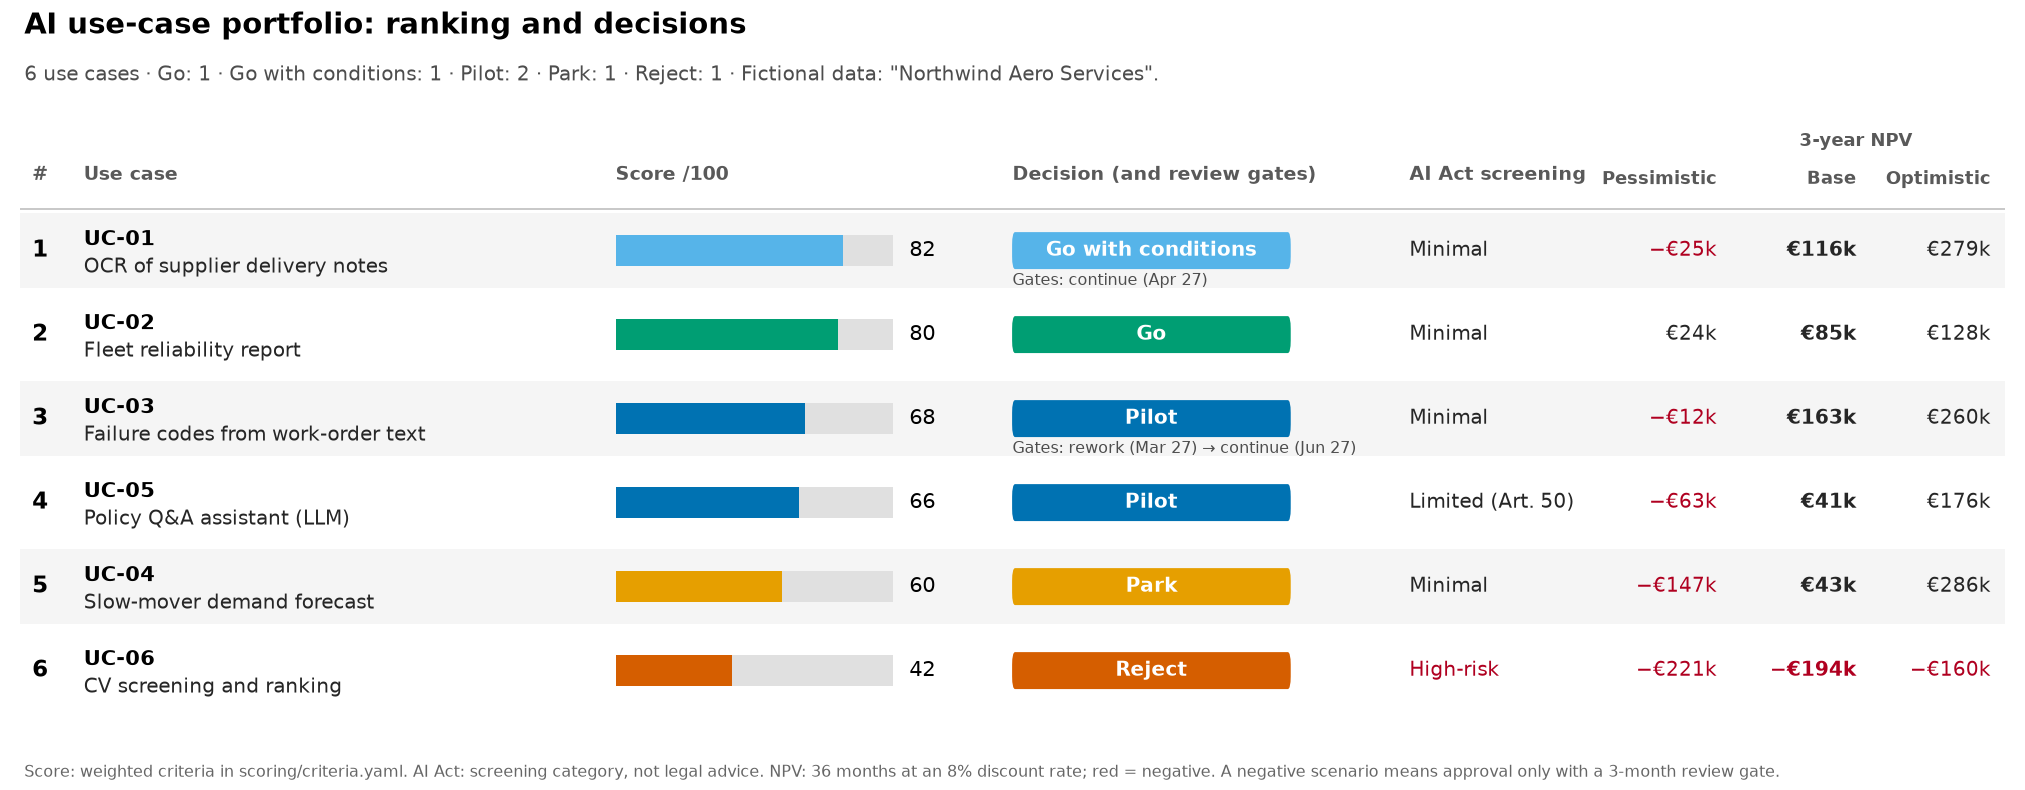
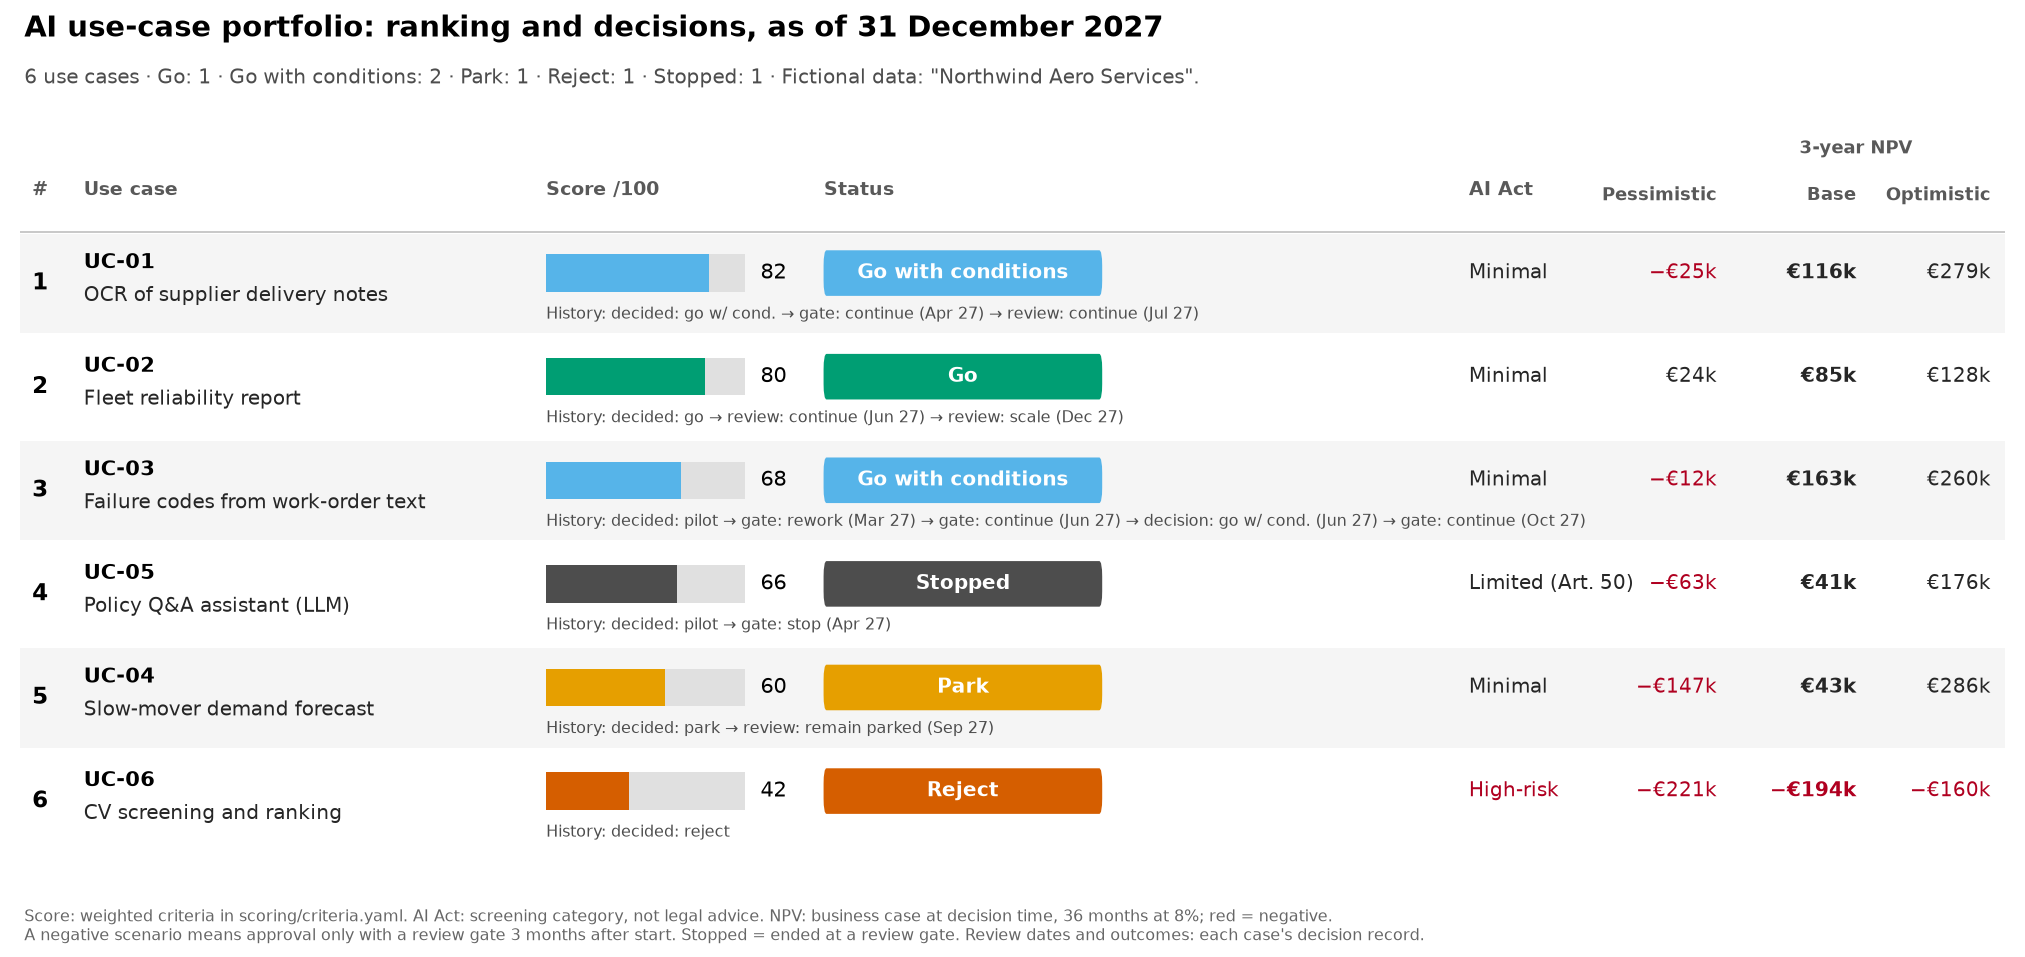
Regenerate example records, decisions table and charts

diff --git a/examples/UC-03_work_order_classification/decision_record_2.md b/examples/UC-03_work_order_classification/decision_record_2.md
@@ -1,0 +1,120 @@
+# Decision record: UC-03 Failure codes suggested from maintenance work-order free text
+
+> **Fictional example.** "Northwind Aero Services" is a fictional MRO and spare-parts company. All names, dates and figures are invented.
+
+> **Follows** [`decision_record.md`](decision_record.md) (Pilot, 2026-10-20).
+
+Generated by `scoring/build_examples.py` from `decision_2.yaml` and the computed scores, triage and business case. Edit `decision_2.yaml`, not this file.
+
+## 1. Decision
+
+| Field | Value |
+|---|---|
+| Use-case ID and title | UC-03 Failure codes suggested from maintenance work-order free text |
+| Decision | **Go with conditions** |
+| Decision date | 2027-06-10 |
+| Decision makers | Sponsor: Director of Maintenance (fictional); Process owner: Head of Maintenance Planning (fictional); Data owner: Maintenance Data Manager (fictional); Finance: Controlling Business Partner (fictional) |
+| Decision stage | end of pilot (after the review gates of 2027-03-01 and 2027-06-01) |
+| Review gate outcomes | continue (2027-10-01); see section 9 |
+
+Pilot to go with conditions. The pilot gate fired in March and the rework worked: at the June gate no trigger was reached (11% wrong codes, 62% coverage). Performance is still below the original plan (8% and 80%), and the pessimistic scenario of the business case is still negative, so the roll-out to all aircraft types gets its own review gate 3 months after it starts, with the same triggers. The value tracking keeps the original plan, so the gap stays visible.
+
+## 2. Scores
+
+| Field | Value |
+|---|---|
+| Gate result | pass |
+| Weighted score (out of 100) | 68.0 |
+| Rank in the portfolio | 3 of 6 |
+| Matrix quadrant | strategic bet |
+
+| Criterion | Weight | Score (1–5) | Reason for the score |
+|---|---|---|---|
+| Business value | 30 | 4 | Unchanged since the pilot decision: 125 hours per month saved (0.9 FTE gross) and 600 wrong codes per month avoided at full plan. |
+| Feasibility | 20 | 3 | Model, retraining routine and work-order screen integration now proven in the pilot; score kept at 3 until the roll-out to all types works. |
+| Data maturity | 20 | 2 | Code list cleaned for the pilot types only; engine-shop work orders still use another coding scheme. |
+| AI maturity / proof | 10 | 4 | Text classification has production references in maintenance; our pilot confirms it on shorthand after relabelling. |
+| Risk (inverted) | 10 | 4 | Minimal risk; the planner confirms every code; a wrong code affects analysis, not airworthiness release. |
+| Strategic fit | 10 | 4 | Supports the reliability objective (named KPI: share of work orders with a valid failure code). |
+
+## 3. AI Act category
+
+| Field | Value |
+|---|---|
+| Screening category | Minimal risk (`minimal`) |
+| Main reason and article reference | No prohibited, high-risk or transparency trigger: minimal risk. |
+| Legal/compliance review | Not required for a minimal-risk screening; to repeat if the codes feed an approved reliability programme. |
+| Obligations carried into the project | AI literacy measures for staff using the system (Art. 4). |
+
+The screening category is not legal advice. Any category other than "minimal risk", and any borderline case, needs confirmation by legal or compliance. Details: `triage.md`.
+
+## 4. Business case summary
+
+| Field | Pessimistic | Base | Optimistic |
+|---|---|---|---|
+| Annual benefit (€) | €37,500 | €111,600 | €153,630 |
+| One-off cost (€) | €68,000 | €68,000 | €68,000 |
+| Annual run cost (€) | €15,000 | €15,000 | €15,000 |
+| Payback (months) | not within 36 months | 12 | 10 |
+| 3-year NPV (€) | -€11,586 | €162,666 | €260,450 |
+
+Link to the business case: [`business_case.md`](business_case.md). Main assumptions and their confidence are in its assumptions log.
+
+## 5. Downside and review gate
+
+**The 3-year NPV is negative in the pessimistic scenario. Pessimistic NPV: -€11,586.**
+
+Because a scenario is negative, the decision carries a review gate on **2027-10-01**, 3 months after go-live (2027-07-01).
+
+| Trigger | How it is measured at the gate | Base plan | Stop or rework if | NPV if only this input is pessimistic |
+|---|---|---|---|---|
+| Share with a wrong failure code with the solution | Share of wrong final codes in a blind audit of 300 work orders across all aircraft types, same method as the 20% baseline. | 8% | at or above 14.0% | €57,871 |
+| Coding time per work order with the solution | Median time per work order from opening to confirming the code, from the work-order screen log, month 3 of the roll-out (September 2027). | 1.5 minutes saved per transaction | time saved at or below 1 minute per transaction (handling time at or above 1 minute) | €142,290 |
+| Adoption after the ramp-up | Share of all work orders closed in month 3 of the roll-out for which the model returns a code above the confidence threshold. | 80% | at or below 50% | €71,377 |
+
+If all triggers are reached, the NPV falls to -€11,586 (the full pessimistic scenario).
+
+**At the gate:** if no trigger is reached, the case continues to the standard value review. If a trigger is reached, the sponsor decides to **stop**, or to **rework** (named actions, owner, date). A rework is allowed only if the business case, re-run on the measured values with the expected effect and cost of the rework, has a positive NPV; otherwise the case stops. Gate outcomes are recorded in section 9.
+
+## 6. Key risks and mitigations
+
+| Risk | Likelihood (L/M/H) | Impact (L/M/H) | Mitigation | Owner |
+|---|---|---|---|---|
+| Accuracy drops on aircraft types not covered by the pilot. | M | H | Blind audit of 300 work orders across all types in month 3 of the roll-out; stop trigger unchanged. | Maintenance Data Manager |
+| Coverage stays low because engine-shop work orders use another coding scheme. | H | M | Mapping of the engine-shop scheme scoped as a separate change; coverage reported monthly. | Head of Reliability Engineering |
+| Planners accept suggestions without reading the text. | M | M | Low-confidence cases still require a manual pick; monthly sample of 50 confirmed codes. | Head of Maintenance Planning |
+
+## 7. Conditions attached
+
+- Review gate on 2027-10-01 (3 months after go-live): stop or rework if a trigger in section 5 is reached.
+- Roll-out by aircraft type, with the cleaned code list loaded before each type goes live.
+- Retraining every quarter with the planners' corrections.
+- No change to release procedures; the code remains an analysis field.
+
+## 8. Review
+
+| Field | Value |
+|---|---|
+| Review date | 2027-10-01 |
+| What will be reviewed | Measured accuracy, time saved and coverage on all aircraft types; realised value against the original plan. |
+| Reopening trigger (park only) | not applicable |
+
+## 9. Review history
+
+Each gate compares the measured values with the stop or rework thresholds of section 5 and re-runs the business case on the measured values (same 36-month horizon and start date; the delay caused by a rework is not modelled).
+
+### Gate 1: 2027-10-01. Decision: **Continue**
+
+| Trigger | Stop or rework if | Measured | Reached? |
+|---|---|---|---|
+| Share with a wrong failure code with the solution | at or above 14.0% | 11% | no |
+| Coding time per work order with the solution | time saved at or below 1 minute per transaction (handling time at or above 1 minute) | 1.3 minutes saved (handling time 0.7 minutes) | no |
+| Adoption after the ramp-up | at or below 50% | 53% | no |
+
+- 3-year NPV re-run on the measured values, including €18,000 of earlier rework cost: **€20,333**.
+
+No trigger reached on all aircraft types: 11% wrong codes, 1.3 minutes saved per work order and 53% coverage. Coverage is only just above the 50% threshold because engine-shop work orders use another coding scheme. The re-run NPV, including the pilot rework cost, is positive but small. Continue to the value review in January, where the 50% rule of the method applies.
+
+Next review: **2028-01-01** (value review).
+
+**Status as of 2027-12-31:** next review due on 2028-01-01.

diff --git a/examples/UC-05_policy_assistant/decision_record.md b/examples/UC-05_policy_assistant/decision_record.md
@@ -13,6 +13,7 @@ Generated by `scoring/build_examples.py` from `decision.yaml` and the computed s
 | Decision date | 2026-10-20 |
 | Decision makers | Sponsor: Chief Operating Officer (fictional); Process owner: Head of Quality Management (fictional); IT security: Chief Information Security Officer (fictional); Legal/compliance: Compliance Officer (fictional) |
 | Decision stage | business case |
+| Review gate outcomes | stop (2027-04-11); see section 9 |
 
 Pilot, on the approved on-premise environment only. Staff spend real time looking for the current version of procedures, but the benefit is spread thin and depends on usage that often drops after launch. Some policies include export-control procedures, so no public cloud model may be used. The pessimistic scenario is clearly negative, so the 3-month pilot with 100 users ends at a review gate on time saved and adoption.
 
@@ -98,6 +99,19 @@ Monitored at the gate but not a trigger: Share of saved hours redeployed or avoi
 | What will be reviewed | Measured time saved and adoption, answer-quality sample, incidents; decision to roll out, rework or stop. |
 | Reopening trigger (park only) | not applicable |
 
-## 9. Review gate outcomes
+## 9. Review history
 
-No review gate recorded yet (due on 2027-04-11).
+Each gate compares the measured values with the stop or rework thresholds of section 5 and re-runs the business case on the measured values (same 36-month horizon and start date; the delay caused by a rework is not modelled).
+
+### Gate 1: 2027-04-11. Decision: **Stop**
+
+| Trigger | Stop or rework if | Measured | Reached? |
+|---|---|---|---|
+| Time to find an answer with the assistant | time saved at or below 7 minutes per transaction (handling time at or above 8 minutes) | 8 minutes saved (handling time 7 minutes) | no |
+| Adoption after the ramp-up | at or below 35% | 30% | **yes** |
+
+- 3-year NPV re-run on the measured values: **-€65,576**.
+
+Adoption trigger reached: only 30% of the pilot group's policy questions went through the assistant in month 3 (stop or rework at 35% or less). Users who used it saved time (8 minutes per question), but most kept asking colleagues or the help desk, mainly because answers on safety-relevant topics only return a link. The re-run on the measured values is negative, and the sponsor did not want to relax the safety-topic rule to raise usage. Decision: stop. The cleaned policy library and the 100 reference questions are kept for a later intake.
+
+**Status as of 2027-12-31:** stopped on 2027-04-11. No further review.

diff --git a/examples/UC-01_delivery_note_ocr/decision_record.md b/examples/UC-01_delivery_note_ocr/decision_record.md
@@ -14,6 +14,7 @@ Generated by `scoring/build_examples.py` from `decision.yaml` and the computed s
 | Decision makers | Sponsor: Director of Supply Chain (fictional); Process owner: Head of Goods Receipt (fictional); Finance: Controlling Business Partner (fictional); IT: Head of ERP Applications (fictional) |
 | Decision stage | business case |
 | Review gate outcomes | continue (2027-04-11); see section 9 |
+| Other reviews | value review: continue (2027-07-11); see section 9 |
 
 Go, with conditions. The case is the portfolio's clear quick win: high volume, a proven technique and a human check on every receipt. The base case pays back in 11 months, but the pessimistic scenario does not pay back within 3 years, so the go is tied to a 3-month review gate on time saved and adoption, the two inputs the process owner can measure early.
 
@@ -98,7 +99,7 @@ Monitored at the gate but not a trigger: Share of saved hours redeployed or avoi
 | What will be reviewed | Measured time saved, processable share of notes, field accuracy, claims backlog, incidents. |
 | Reopening trigger (park only) | not applicable |
 
-## 9. Review gate outcomes
+## 9. Review history
 
 Each gate compares the measured values with the stop or rework thresholds of section 5 and re-runs the business case on the measured values (same 36-month horizon and start date; the delay caused by a rework is not modelled).
 
@@ -113,3 +114,12 @@ Each gate compares the measured values with the stop or rework thresholds of sec
 
 No trigger reached. Checking takes longer than planned (2.4 instead of 2 minutes) because clerks re-read low-confidence fields, but time saved and the processable share are both well above their thresholds. The case moves to the standard value review.
 
+Next review: **2027-07-11** (value review).
+
+### Value and park reviews
+
+| Date | Review | Outcome | What was found | Next review |
+|---|---|---|---|---|
+| 2027-07-11 | value review | **Continue** | First six months at 91% of plan. Checking still takes 2.4 minutes, and about half of the freed time goes to the supplier-claims backlog as planned. No action needed. | 2028-01-11 |
+
+**Status as of 2027-12-31:** next review due on 2028-01-11.

diff --git a/examples/UC-02_fleet_reliability_report/decision_record.md b/examples/UC-02_fleet_reliability_report/decision_record.md
@@ -13,6 +13,7 @@ Generated by `scoring/build_examples.py` from `decision.yaml` and the computed s
 | Decision date | 2026-10-20 |
 | Decision makers | Sponsor: Director of Engineering (fictional); Process owner: Head of Reliability Engineering (fictional); Finance: Controlling Business Partner (fictional) |
 | Decision stage | business case |
+| Other reviews | value review: continue (2027-06-01), value review: scale (2027-12-01); see section 9 |
 
 Go. Medium value but cheap, quick and low-risk: it reuses the existing BI platform, the data is already used in reporting, and an engineer reviews every report before it goes to a customer. The NPV stays positive in all three scenarios, so the standard 6-month value review applies.
 
@@ -80,3 +81,12 @@ The 3-year NPV is positive in every scenario (pessimistic NPV: €24,178). The d
 | Review date | 2027-06-01 |
 | What will be reviewed | Realised vs. planned value, adoption, false-alarm rate, re-issued reports. |
 | Reopening trigger (park only) | not applicable |
+
+## 9. Review history
+
+| Date | Review | Outcome | What was found | Next review |
+|---|---|---|---|---|
+| 2027-06-01 | value review | **Continue** | First six months on plan (100%). One false anomaly flag, caused by a sensor data gap, led to an input check. Engineers read the flags. | 2027-12-01 |
+| 2027-12-01 | value review | **Scale** | Twelve months on plan (101%) with two minor incidents. Decision: extend the automated report and anomaly flags to the component shop in 2028, with a short business case addendum at the next review. | 2028-06-01 |
+
+**Status as of 2027-12-31:** next review due on 2028-06-01.

diff --git a/examples/UC-04_slow_mover_forecast/decision_record.md b/examples/UC-04_slow_mover_forecast/decision_record.md
@@ -13,6 +13,7 @@ Generated by `scoring/build_examples.py` from `decision.yaml` and the computed s
 | Decision date | 2026-10-20 |
 | Decision makers | Sponsor: Director of Supply Chain (fictional); Process owner: Head of Materials Planning (fictional); Finance: Controlling Business Partner (fictional) |
 | Decision stage | business case |
+| Other reviews | park review: remain parked (2027-09-01); see section 9 |
 
 Park. The idea is sound but the data is not ready: after the ERP migration only 14 months of clean demand history exist, and slow movers need at least 24 months to show a pattern. The business case is fragile for the same reason: its pessimistic NPV is strongly negative and the base case pays back only in month 23. Reopen when 24 months of clean history exist.
 
@@ -81,3 +82,11 @@ No review gate now, because the decision is park and nothing is built. If the ca
 | Review date | 2027-09-01 |
 | What will be reviewed | Length and quality of the demand history; then a back-test of a simple forecast against planner judgement. |
 | Reopening trigger (park only) | 24 months of clean demand history available (expected August 2027), confirmed by the data owner. |
+
+## 9. Review history
+
+| Date | Review | Outcome | What was found | Next review |
+|---|---|---|---|---|
+| 2027-09-01 | park review | **Remain parked** | Reopening trigger not met. The data owner found that the 2026 ERP migration duplicated six months of demand; clean history is 18 months, not 24. Re-check when 24 clean months are available. | 2028-03-01 |
+
+**Status as of 2027-12-31:** next review due on 2028-03-01.

diff --git a/examples/UC-03_work_order_classification/decision_record.md b/examples/UC-03_work_order_classification/decision_record.md
@@ -2,6 +2,8 @@
 
 > **Fictional example.** "Northwind Aero Services" is a fictional MRO and spare-parts company. All names, dates and figures are invented.
 
+> **Superseded** on 2027-06-10 by [`decision_record_2.md`](decision_record_2.md) (Go with conditions). Kept as the record of the earlier decision.
+
 Generated by `scoring/build_examples.py` from `decision.yaml` and the computed scores, triage and business case. Edit `decision.yaml`, not this file.
 
 ## 1. Decision
@@ -97,7 +99,7 @@ If all triggers are reached, the NPV falls to -€11,586 (the full pessimistic s
 | What will be reviewed | Measured accuracy, time saved and coverage; decision to roll out, rework or stop. |
 | Reopening trigger (park only) | not applicable |
 
-## 9. Review gate outcomes
+## 9. Review history
 
 Each gate compares the measured values with the stop or rework thresholds of section 5 and re-runs the business case on the measured values (same 36-month horizon and start date; the delay caused by a rework is not modelled).
 
@@ -134,3 +136,4 @@ Next review gate: **2027-06-01**, same triggers.
 
 No trigger reached after the rework. Accuracy and coverage are better but still below the original plan (8% error rate, 80% coverage). The re-run NPV is positive, so the roll-out to all aircraft types continues; the value tracking keeps the original plan to make the gap visible.
 
+**Status as of 2027-12-31:** superseded on 2027-06-10 by `decision_record_2.md`.

diff --git a/examples/UC-06_cv_screening/decision_record.md b/examples/UC-06_cv_screening/decision_record.md
@@ -80,3 +80,9 @@ No review gate now, because the decision is reject and nothing is built. If the 
 | Review date | not applicable |
 | What will be reviewed | Reopened only with a materially new intake. |
 | Reopening trigger (park only) | not applicable |
+
+## 9. Review history
+
+No review planned.
+
+**Status as of 2027-12-31:** rejected. No further review.
